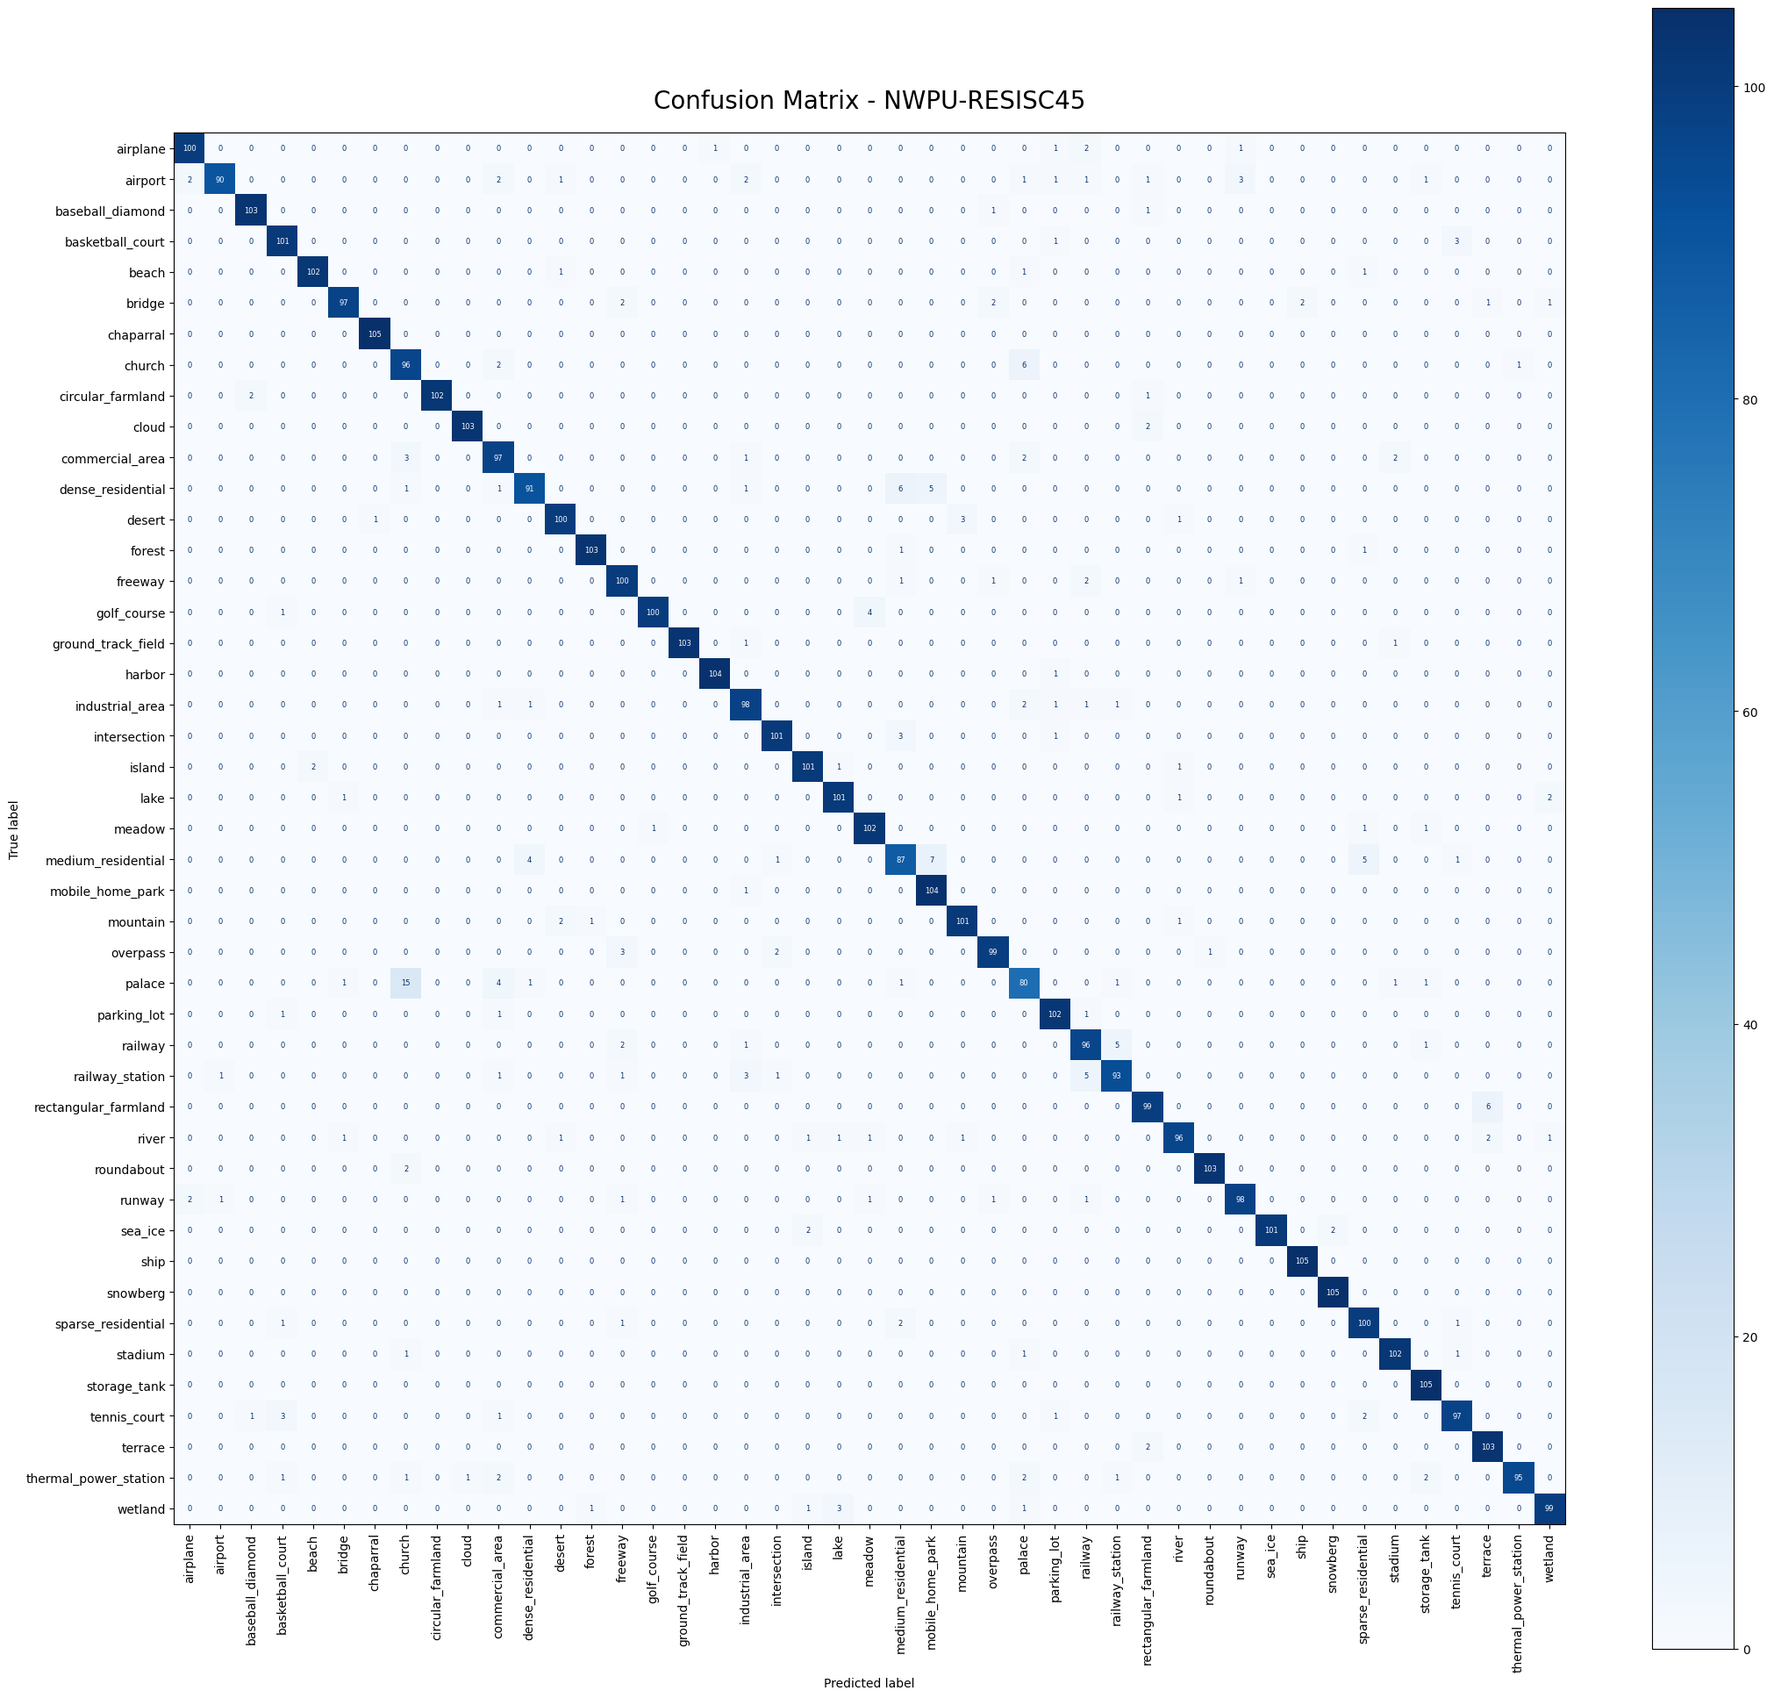
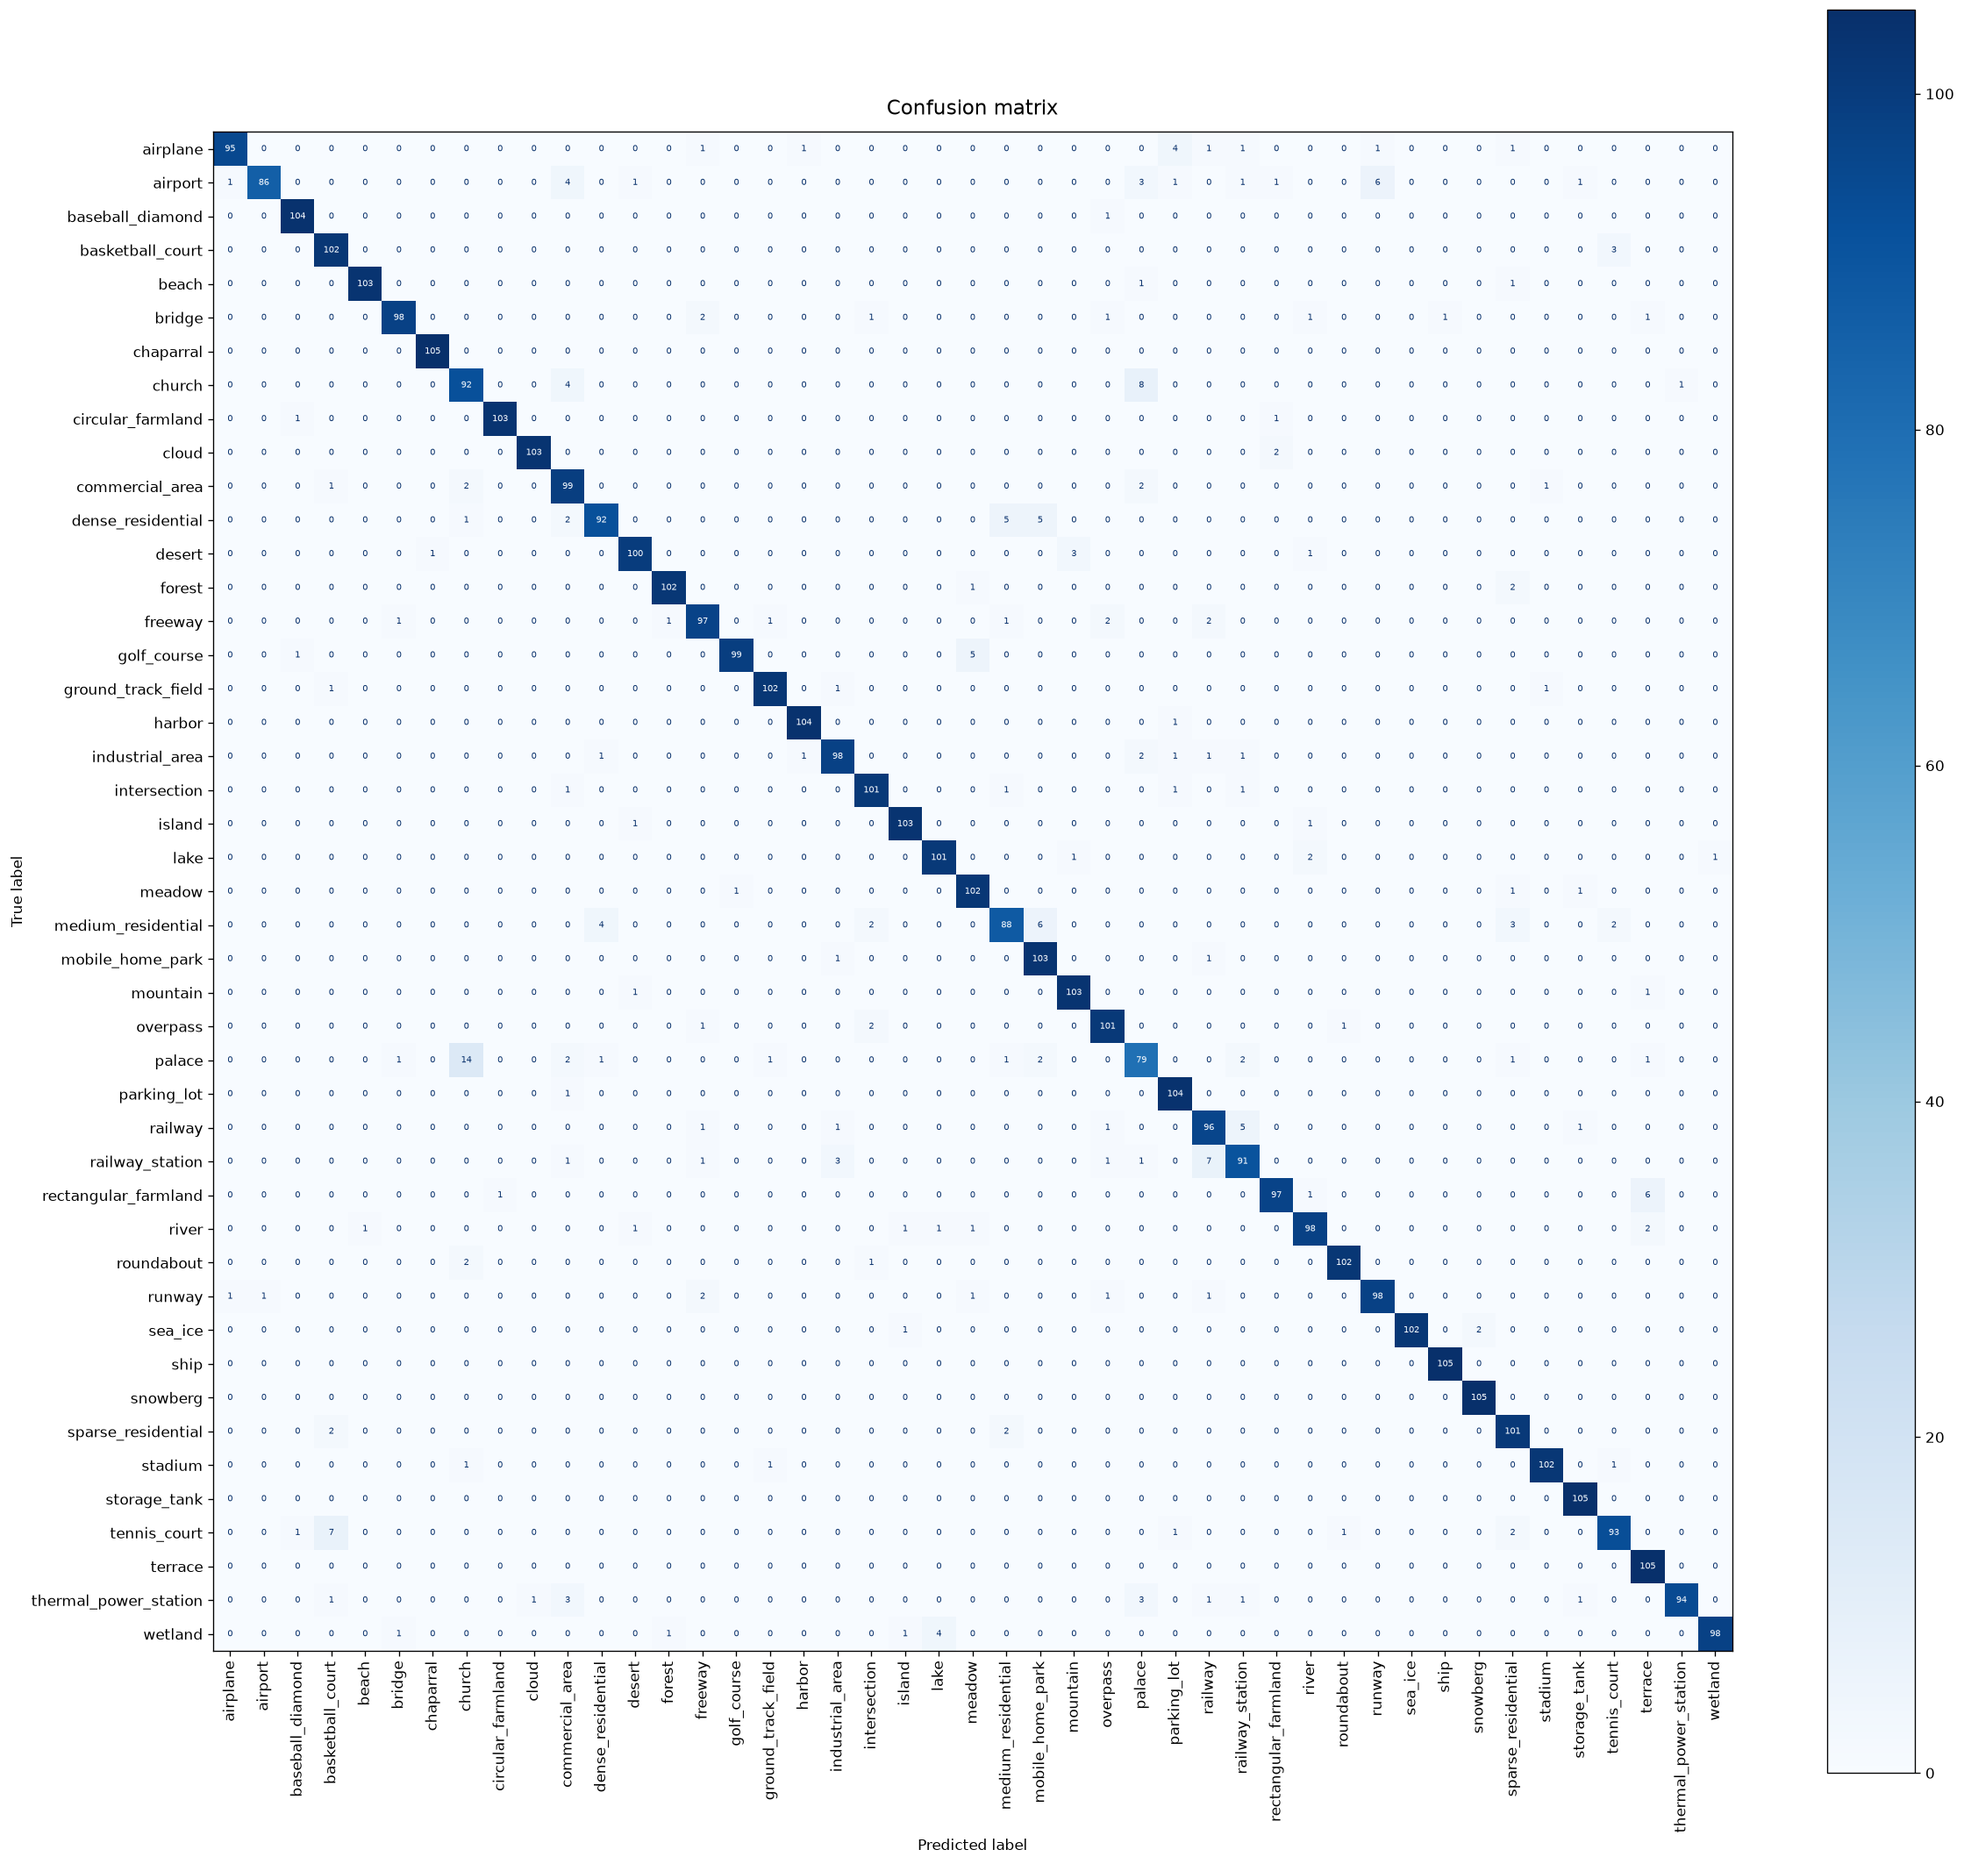
Update results to the retrained model (94.4% test accuracy)
Re-evaluated the retrained model on the same 4,725-image test split:
metrics, per-class report, confusion matrices and sample predictions now
match the model that will be published. Also hides the duplicate heading
above the demo's top-5 chart.

diff --git a/demo/app.py b/demo/app.py
@@ -19,8 +19,8 @@ GITHUB_URL = "https://github.com/esammostafa9-cloud/resisc45-scene-classificatio
 UNSURE_THRESHOLD = 0.5
 
 METRICS = {
-    "Test accuracy": "94.6%",
-    "Macro F1": "0.946",
+    "Test accuracy": "94.4%",
+    "Macro F1": "0.944",
     "Classes": "45",
     "Test images": "4,725",
 }
@@ -122,7 +122,7 @@ def build_demo(classifier: Classifier) -> gr.Blocks:
                     gr.Examples(examples=examples, inputs=image, label="Try an example")
             with gr.Column(scale=4):
                 card = gr.HTML(EMPTY_CARD, padding=False)
-                scores = gr.Label(num_top_classes=5, label="Top-5 predictions")
+                scores = gr.Label(num_top_classes=5, label="Top-5 predictions", show_heading=False)
 
         with gr.Accordion("About this model", open=False):
             gr.Markdown(

diff --git a/tests/test_serving.py b/tests/test_serving.py
@@ -168,6 +168,6 @@ def test_push_model_uploads_model_names_and_card(model_dir, monkeypatch):
 
 def test_model_card_includes_real_metrics():
     rows = hub._metrics_rows(REPO_ROOT / "results" / "test_metrics.json")
-    assert "| Accuracy | 0.946 |" in rows
+    assert "| Accuracy | 0.9441 |" in rows
     card = hub.MODEL_CARD.format(github="g", repo="r", metrics_rows=rows)
     assert card.startswith("---\nlicense: mit")

diff --git a/README.md b/README.md
@@ -11,14 +11,14 @@ Classifies aerial and satellite images into **45 land-use scene categories** usi
 
 | Metric (held-out test set, 4,725 images) | Score |
 |---|---|
-| **Accuracy** | **94.60%** |
-| Macro precision | 0.9469 |
-| Macro recall | 0.9460 |
-| Macro F1 | 0.9460 |
-| Test loss | 0.2879 |
+| **Accuracy** | **94.41%** |
+| Macro precision | 0.9453 |
+| Macro recall | 0.9441 |
+| Macro F1 | 0.9440 |
+| Test loss | 0.2987 |
 
 <p align="center">
-  <img src="reports/figures/top5_confidence.png" width="520" alt="Test images with their top-5 predicted classes">
+  <img src="reports/figures/sample_predictions.png" width="520" alt="Test images with their top-5 predicted classes">
 </p>
 
 ---
@@ -87,20 +87,23 @@ Full table: [`results/classification_report.csv`](results/classification_report.
 
 | Strongest classes (F1) | | Weakest classes (F1) | |
 |---|---|---|---|
-| chaparral | 0.995 | palace | 0.796 |
-| ship | 0.991 | medium_residential | 0.845 |
-| snowberg | 0.991 | church | 0.857 |
-| harbor | 0.990 | commercial_area | 0.894 |
-| ground_track_field | 0.990 | railway | 0.897 |
+| chaparral | 0.995 | palace | 0.774 |
+| ship | 0.995 | church | 0.848 |
+| snowberg | 0.991 | medium_residential | 0.867 |
+| harbor | 0.986 | railway_station | 0.875 |
+| circular_farmland | 0.986 | commercial_area | 0.892 |
 
 Errors are concentrated in classes that genuinely look alike from above. The weakest classes
 are confused with each other:
 
 ![Confusion matrix of the 10 weakest classes](reports/figures/confusion_matrix_worst10.png)
 
-- **palace ↔ church**: 15 palaces were predicted as church (both are large ornate buildings).
+- **palace ↔ church**: 14 palaces were predicted as church and 8 churches as palace (both are
+  large ornate buildings). This is the single biggest source of error.
+- **railway ↔ railway_station**: 7 + 5 swaps, both being linear rail scenes.
 - **dense ↔ medium residential**: housing density shades gradually from one class to the other.
-- **railway ↔ railway_station**: both are linear rail scenes.
+
+Overall, 264 of the 4,725 test images are misclassified.
 
 The full 45×45 matrix and the 10 best classes are in [`reports/figures/`](reports/figures).
 
